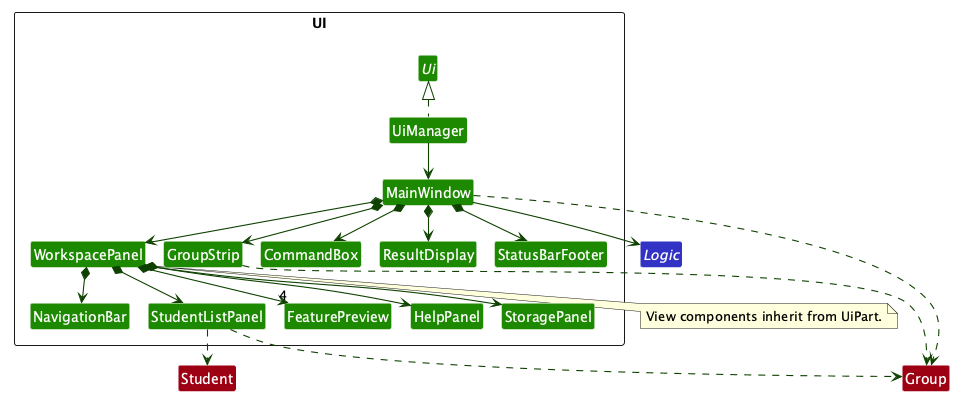
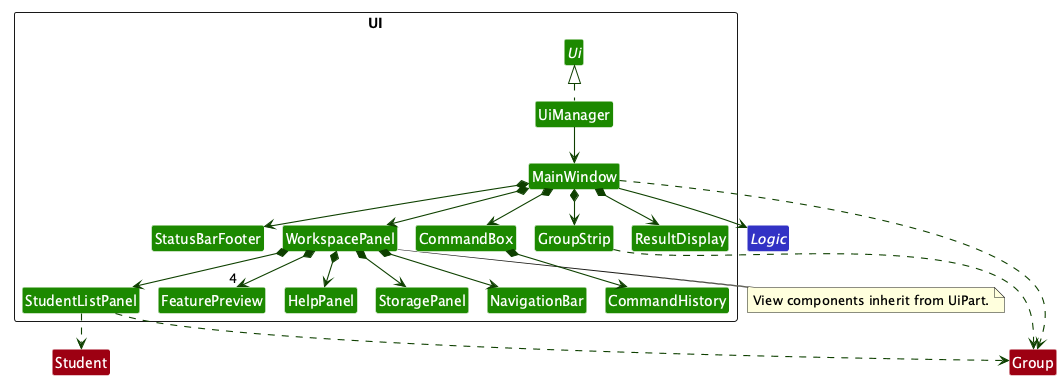
Document command history in the UG and DG

diff --git a/docs/DeveloperGuide.md b/docs/DeveloperGuide.md
@@ -109,6 +109,13 @@ confirmation and, for `help TOPIC`, the topic. `MainWindow` then asks `Workspace
 shows that many rows, from one up to six. Longer messages scroll. It shows a check mark beside a message, or a cross on
 a red row when the command failed, and failed commands retain their input.
 
+`CommandBox` keeps a `CommandHistory` of every command entered in the session, including failed ones. An event filter
+on the text field turns Up into `CommandHistory#previous` and Down into `CommandHistory#next`, and consumes both keys.
+`previous` saves the text being typed before it recalls the first command, and `next` returns that text once Down
+passes the newest command. Entering a command adds it to the history and stops recalling. The history is kept in
+memory only, because it is a typing aid rather than TAssist data, and `CommandHistory` has no JavaFX dependency so
+that it can be unit tested.
+
 The four feature previews deliberately contain no records and are marked **Coming soon**. They are UI layouts only;
 future increments must connect domain models, commands and persistence before enabling their controls.
 
@@ -1360,8 +1367,10 @@ The smoke test covers all seven screens at normal and compact sizes, F1 and Esca
 the group strip, the navigation bar highlighting the current screen and keeping focus in the command box, the Students
 screen following the active group and its students, group creation/listing/switching through the command box,
 both empty states, long group and student names, row numbering after a removal, `help TOPIC` scrolling to its topic, commands that
-do not open a screen keeping the current screen, a usage message fitting the feedback box, and invalid-input retention. Normal unit tests cover screen
-parsing, result identity, navigation with unavailable storage, and the Students screen's captions and empty states.
+do not open a screen keeping the current screen, a usage message fitting the feedback box, invalid-input retention, and
+recalling and editing earlier commands with Up and Down. Normal unit tests cover screen
+parsing, result identity, navigation with unavailable storage, the Students screen's captions and empty states, and
+`CommandHistory`.
 It also checks attendance commands through the command box, scrolling a 20-student listing in a compact window,
 and retaining an invalid attendance command for correction.
 
@@ -1377,6 +1386,8 @@ For manual testing, build with `./gradlew shadowJar` and launch the JAR in an em
 3. Enter `view nowhere`. Verify that the command remains editable and the feedback names the valid screens.
    Enter `view` and verify that the whole usage message is readable without scrolling.
 4. Enter `help group`. Verify that Help opens at the group commands and the feedback box shows one line.
-5. Check F1 and Escape while typing. Resize the window and scroll long content and feedback. Check 1920x1080 at
-   100% and 125%, and 1280x720 at 100% and 150% on the target platforms. The automated compact preview uses
-   853x440 content pixels, allowing for window decorations at 150% scaling.
+5. Check F1 and Escape while typing. Enter `view help` and `view nowhere`, type `view st`, and press Up twice:
+   the box shows `view nowhere`, then `view help`. Press Down twice to return to `view st`.
+   Resize the window and scroll long content and feedback. Check 1920x1080 at 100% and 125%, and 1280x720 at
+   100% and 150% on the target platforms. The automated compact preview uses 853x440 content pixels, allowing for
+   window decorations at 150% scaling.

diff --git a/docs/UserGuide.md b/docs/UserGuide.md
@@ -86,6 +86,11 @@ The footer shows the local file path, reports successful saves or command failur
 Escape shortcuts.
 Opening a screen with `view` does not save or change data.
 
+Press **Up** in the command box to bring back the commands you entered earlier, newest first, including ones that
+failed. Press **Down** to move back towards the newest command; going past it restores what you were typing. You can
+edit a recalled command before pressing **Enter** to run it, which saves retyping when you mark a whole group. The
+history starts empty each time you open TAssist.
+
 ## Features
 
 <div markdown="block" class="alert alert-info">
